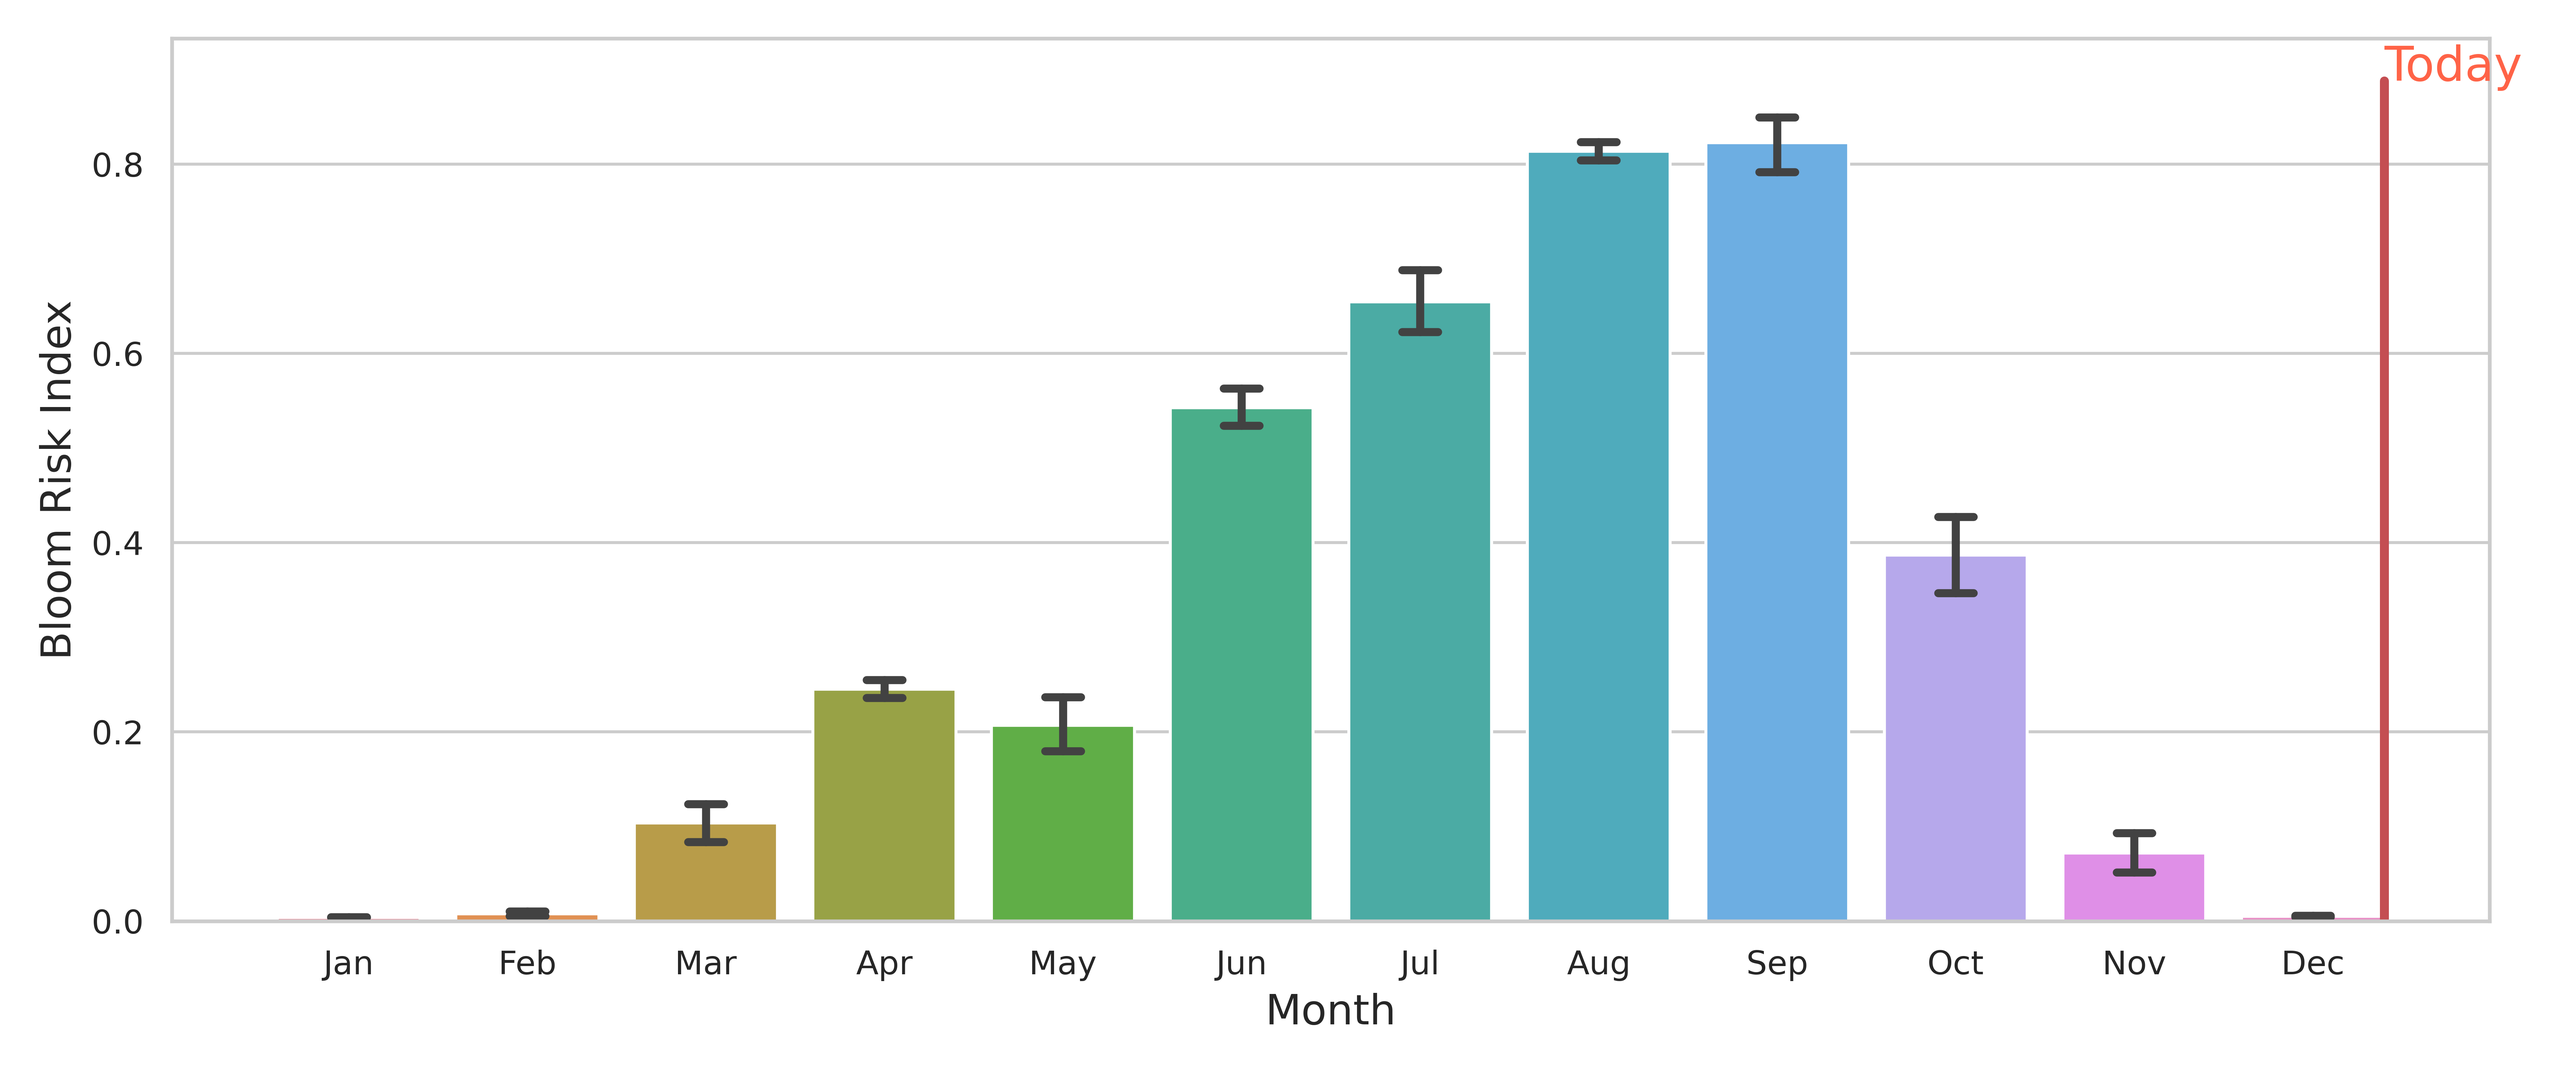
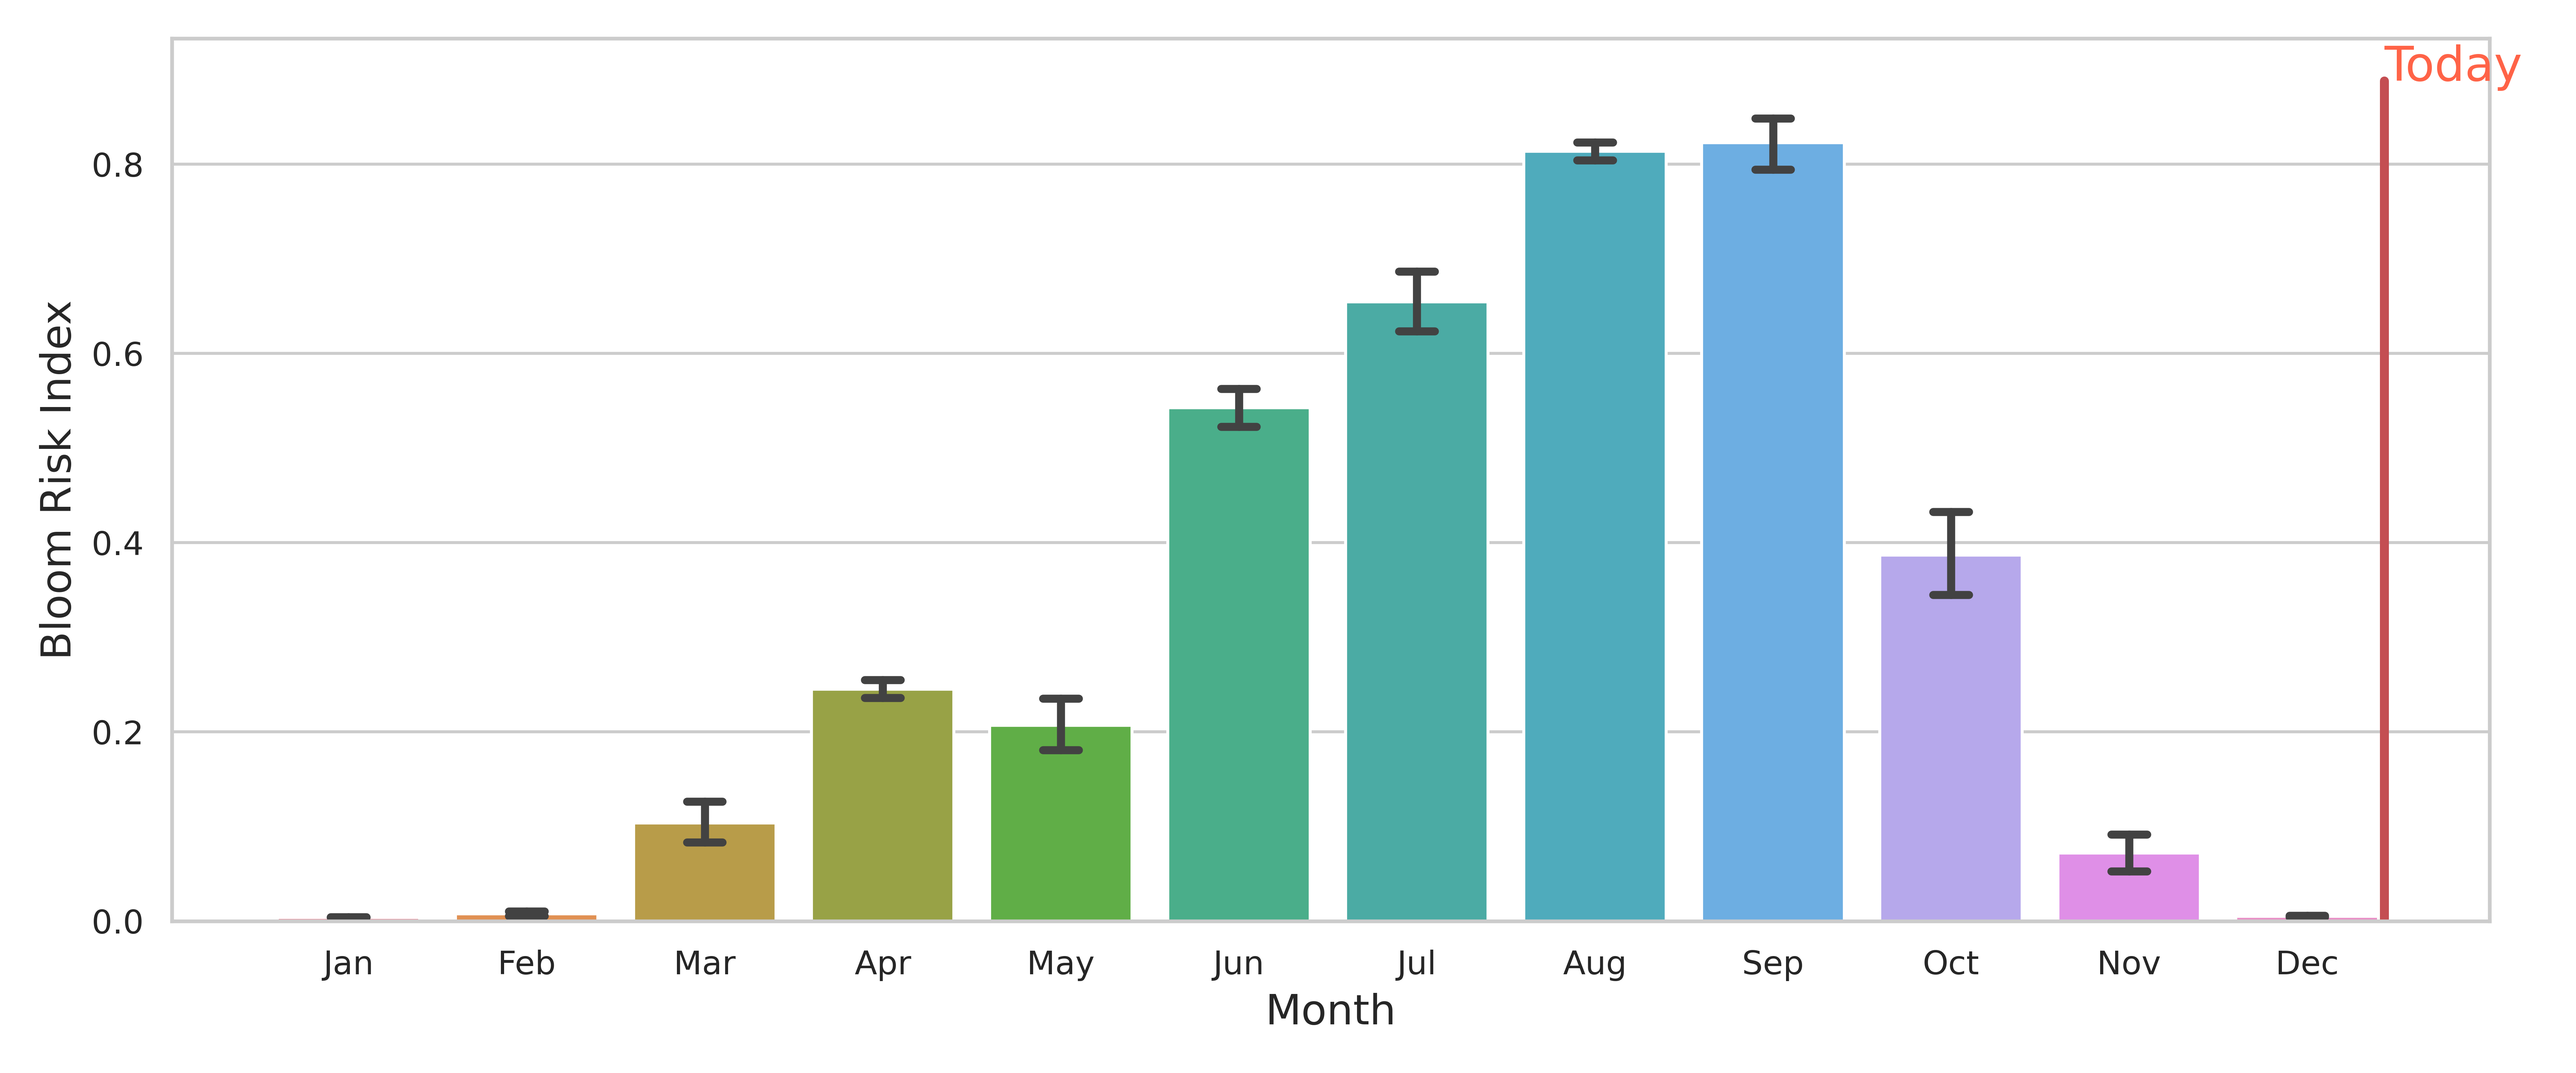
daily blog update

diff --git a/index.md b/index.md
@@ -1,5 +1,5 @@
 ---
-title: "Dec 12, 2024"
+title: "Dec 13, 2024"
 excerpt: "HAB update"
 image: /assets/images/woodcliff.jpg
 tags: 
@@ -11,34 +11,34 @@ Click here to see the live and interactive [Harmful Algal Bloom dashboard](https
 
 ## 7-day Look Ahead Bloom Forecast
 Below are pie charts describing the __probability of a cyanobacterial bloom__. The chart on the left describes the predictions from two weeks ago, and the one on the right describes the latest prediction, for the coming week. 
-![image-center]({{ site.url }}{{ site.baseurl }}/assets/images/20241212/Fig_prediction.png)
+![image-center]({{ site.url }}{{ site.baseurl }}/assets/images/20241213/Fig_prediction.png)
 __Probabilities of occurrence (%) of an algal bloom from two weeks ago (left) and for the next 7 days (right).__
 
 ## Hotspot Analysis - Chlorophyll-a
 This map shows you the latest estimates of __chlorophyll-a__ from the Sentinel 2a satellite. Note that the color scale is normalized to highlight the hotspots in the image. The colorscale does not provide an indication of the absolute amount of chlorophyll-a in the water and should be interpreted as an "index" of chlorophyll-a.
-![image-center]({{ site.url }}{{ site.baseurl }}/assets/images/20241212/Fig_chla.png){: .align-center}
+![image-center]({{ site.url }}{{ site.baseurl }}/assets/images/20241213/Fig_chla.png){: .align-center}
 <br clear="all" />
 __Latest chlorophyll-a map from the Sentinel 2a satelllite.__
 
 ## Hotspot Analysis - CyAN
 This map shows you the latest estimates of the concentration of cyanobacteria (cells/ml) from the EPA CyAN program.
-![image-center]({{ site.url }}{{ site.baseurl }}/assets/images/20241212/Fig_cyan.png){: .align-center}
+![image-center]({{ site.url }}{{ site.baseurl }}/assets/images/20241213/Fig_cyan.png){: .align-center}
 <br clear="all" />
 __Latest CyAN map from the EPA.__
 
 ## Where we are in the season
 This plot shows the __historical expectation for HAB risk__ over the year. Use this chart to see where we are in the season (identified by the vertical red line). 
-![image-center]({{ site.url }}{{ site.baseurl }}/assets/images/20241212/Fig_climatology.png){: .     align-center}
+![image-center]({{ site.url }}{{ site.baseurl }}/assets/images/20241213/Fig_climatology.png){: .     align-center}
 __Harmful algal bloom risk over the year__.
 
 ## How rainy has it been? 
 We know that in general certain weather conditions promote the likelihood of HABs. Check this chart to see 
 how __wet__ it is, relative to past years. This is simply adding up each day's rainfall, for each year. If the red line is below the orange line, then this year is dryer than average.
-![image-center]({{ site.url }}{{ site.baseurl }}/assets/images/20241212/Fig_precip_cumsum.png){: .     align-center}
+![image-center]({{ site.url }}{{ site.baseurl }}/assets/images/20241213/Fig_precip_cumsum.png){: .     align-center}
 __Precipitation at the lake compared to previous years__.
 
 ## How hot has it been? 
 We know that in general certain weather conditions promote the likelihood of HABs. Check this chart to see 
 how __hot__ it is, relative to past years. This is simply adding up each day's temperature, for each year. If the red line is above the orange line, this year is hotter than average.
-![image-center]({{ site.url }}{{ site.baseurl }}/assets/images/20241212/Fig_temp_cumsum.png){: .     align-center}
+![image-center]({{ site.url }}{{ site.baseurl }}/assets/images/20241213/Fig_temp_cumsum.png){: .     align-center}
 __Air temperature at the lake compared to previous years__.

diff --git a/_posts/2024-12-13-blog089.md b/_posts/2024-12-13-blog089.md
@@ -1,0 +1,44 @@
+---
+title: "Dec 13, 2024"
+excerpt: "HAB update"
+image: /assets/images/woodcliff.jpg
+tags: 
+  - hab
+  - prediction
+---
+
+Click here to see the live and interactive [Harmful Algal Bloom dashboard](https://woodcliff.clrwater.io/).
+
+## 7-day Look Ahead Bloom Forecast
+Below are pie charts describing the __probability of a cyanobacterial bloom__. The chart on the left describes the predictions from two weeks ago, and the one on the right describes the latest prediction, for the coming week. 
+![image-center]({{ site.url }}{{ site.baseurl }}/assets/images/20241213/Fig_prediction.png)
+__Probabilities of occurrence (%) of an algal bloom from two weeks ago (left) and for the next 7 days (right).__
+
+## Hotspot Analysis - Chlorophyll-a
+This map shows you the latest estimates of __chlorophyll-a__ from the Sentinel 2a satellite. Note that the color scale is normalized to highlight the hotspots in the image. The colorscale does not provide an indication of the absolute amount of chlorophyll-a in the water and should be interpreted as an "index" of chlorophyll-a.
+![image-center]({{ site.url }}{{ site.baseurl }}/assets/images/20241213/Fig_chla.png){: .align-center}
+<br clear="all" />
+__Latest chlorophyll-a map from the Sentinel 2a satelllite.__
+
+## Hotspot Analysis - CyAN
+This map shows you the latest estimates of the concentration of cyanobacteria (cells/ml) from the EPA CyAN program.
+![image-center]({{ site.url }}{{ site.baseurl }}/assets/images/20241213/Fig_cyan.png){: .align-center}
+<br clear="all" />
+__Latest CyAN map from the EPA.__
+
+## Where we are in the season
+This plot shows the __historical expectation for HAB risk__ over the year. Use this chart to see where we are in the season (identified by the vertical red line). 
+![image-center]({{ site.url }}{{ site.baseurl }}/assets/images/20241213/Fig_climatology.png){: .     align-center}
+__Harmful algal bloom risk over the year__.
+
+## How rainy has it been? 
+We know that in general certain weather conditions promote the likelihood of HABs. Check this chart to see 
+how __wet__ it is, relative to past years. This is simply adding up each day's rainfall, for each year. If the red line is below the orange line, then this year is dryer than average.
+![image-center]({{ site.url }}{{ site.baseurl }}/assets/images/20241213/Fig_precip_cumsum.png){: .     align-center}
+__Precipitation at the lake compared to previous years__.
+
+## How hot has it been? 
+We know that in general certain weather conditions promote the likelihood of HABs. Check this chart to see 
+how __hot__ it is, relative to past years. This is simply adding up each day's temperature, for each year. If the red line is above the orange line, this year is hotter than average.
+![image-center]({{ site.url }}{{ site.baseurl }}/assets/images/20241213/Fig_temp_cumsum.png){: .     align-center}
+__Air temperature at the lake compared to previous years__.
